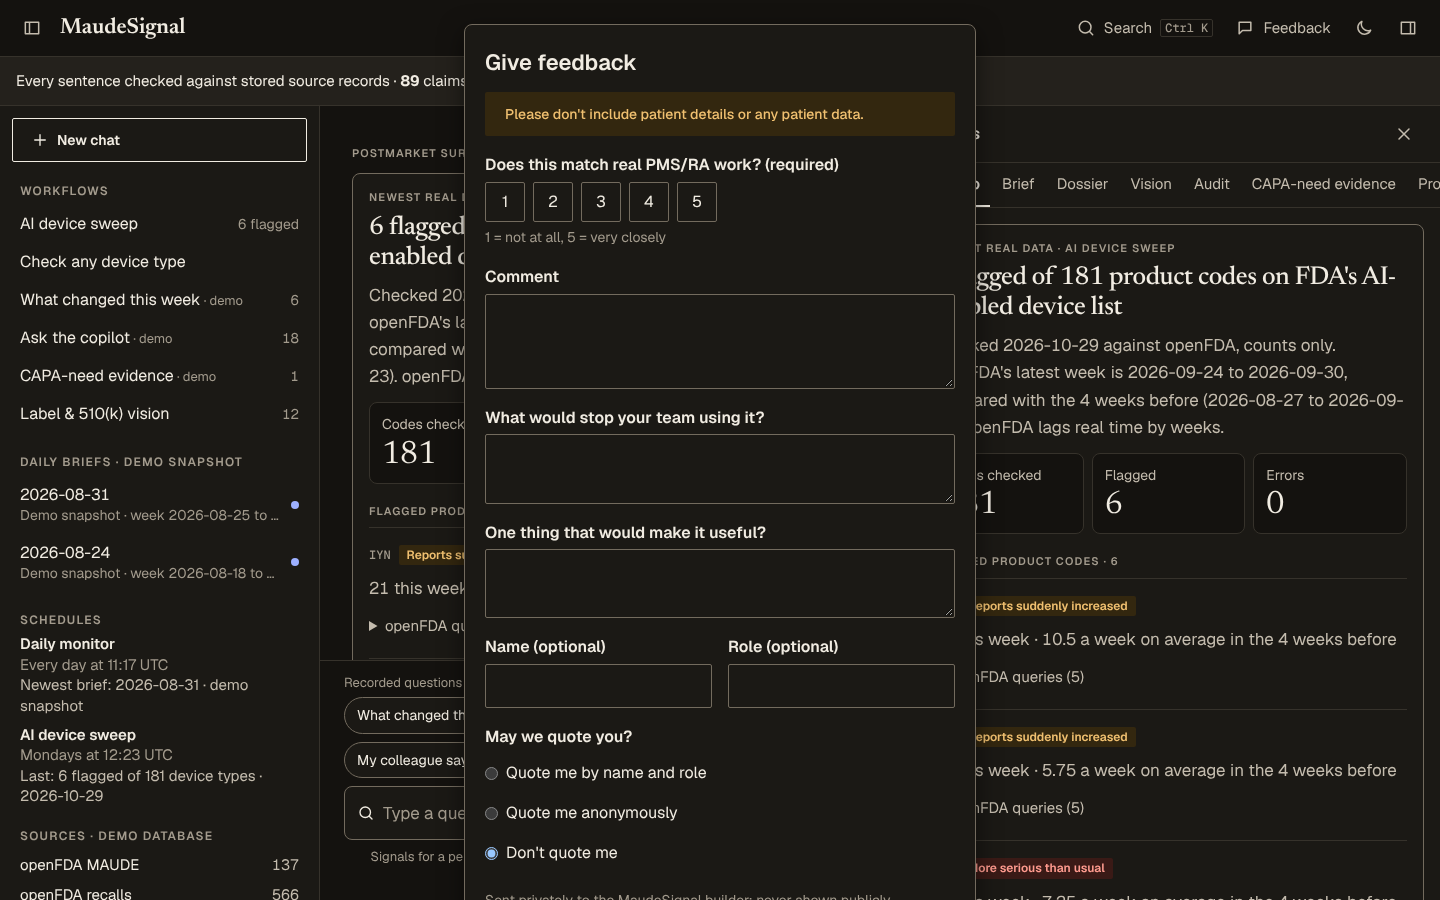
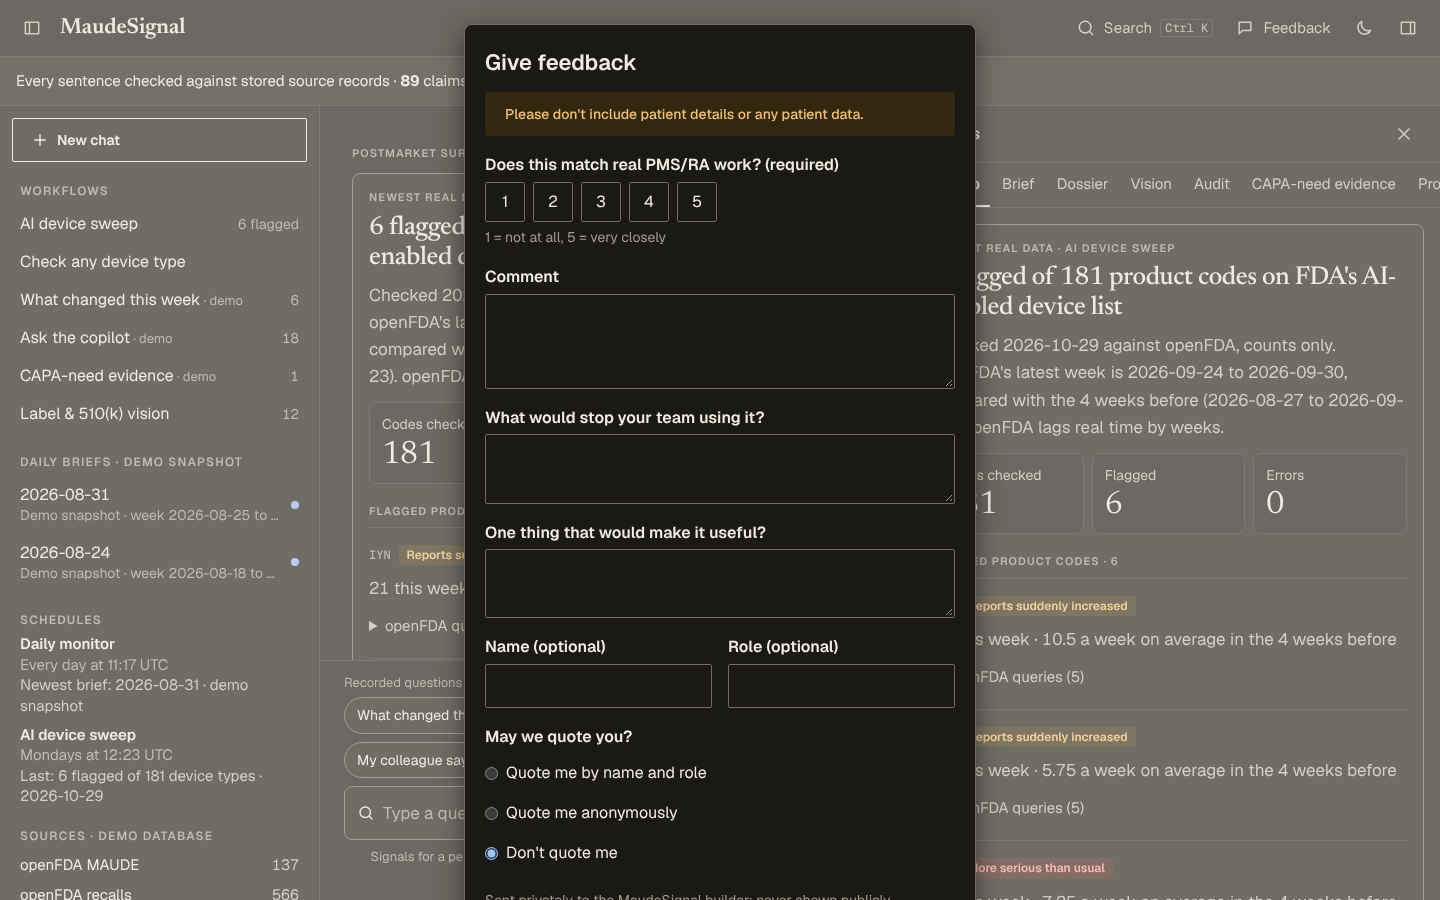
web: visit ping via fetch only (no sendBeacon CORS loss), token scrim, single Esc handler, two-origin check
Claude-Session: https://claude.ai/code/session_01SawpACqLLsGWXrK6TBXRho

diff --git a/web/src/feedback.test.tsx b/web/src/feedback.test.tsx
@@ -89,14 +89,22 @@ describe('visit pings', () => {
     expect(sendVisit(BASE, 'abc', 'new', s, { fetcher }, NOW)).toBe(false)
   })
 
-  it('prefers sendBeacon and falls back to fetch', () => {
+  it('always uses fetch keepalive with credentials omit and never builds a beacon', () => {
+    const fetcher = vi.fn((_u: string, _i: RequestInit) => Promise.resolve({}))
     const beacon = vi.fn(() => true)
-    const fetcher = vi.fn(() => Promise.resolve({}))
-    sendVisit(BASE, 'abc', 'a', fakeStore(), { beacon, fetcher }, NOW)
-    expect(beacon).toHaveBeenCalledTimes(1)
-    expect(fetcher).not.toHaveBeenCalled()
-    sendVisit(BASE, 'abc', 'b', fakeStore(), { beacon: () => false, fetcher }, NOW)
+    const sendBeacon = vi.fn(() => true)
+    Object.defineProperty(globalThis.navigator, 'sendBeacon', { value: sendBeacon, configurable: true })
+    // an extra beacon property on the sender must be ignored
+    sendVisit(BASE, 'abc', 'a', fakeStore(), { fetcher, beacon } as never, NOW)
+    expect(beacon).not.toHaveBeenCalled()
+    expect(sendBeacon).not.toHaveBeenCalled()
     expect(fetcher).toHaveBeenCalledTimes(1)
+    const [url, init] = fetcher.mock.calls[0]
+    expect(url).toBe(`${BASE}/v1/visit`)
+    expect(init.keepalive).toBe(true)
+    expect(init.credentials).toBe('omit')
+    expect(init.body).not.toBeInstanceOf(Blob)
+    Reflect.deleteProperty(globalThis.navigator, 'sendBeacon')
   })
 
   it('sends nothing without a ref or an API base, and fetch failures are silent', async () => {
@@ -214,20 +222,13 @@ describe('dialog', () => {
 
 describe('dialog keyboard', () => {
   const key = (k: string, shiftKey = false) => ({ key: k, shiftKey, preventDefault: vi.fn() })
-  it('Escape closes', () => {
-    const close = vi.fn()
-    dialogKey(key('Escape'), ['a', 'b'], 'a', close, vi.fn())
-    expect(close).toHaveBeenCalledTimes(1)
-  })
   it('Tab wraps last to first and Shift+Tab first to last', () => {
     const focus = vi.fn()
-    const close = vi.fn()
-    dialogKey(key('Tab'), ['a', 'b', 'c'], 'c', close, focus)
+    dialogKey(key('Tab'), ['a', 'b', 'c'], 'c', focus)
     expect(focus).toHaveBeenLastCalledWith('a')
-    dialogKey(key('Tab', true), ['a', 'b', 'c'], 'a', close, focus)
+    dialogKey(key('Tab', true), ['a', 'b', 'c'], 'a', focus)
     expect(focus).toHaveBeenLastCalledWith('c')
-    dialogKey(key('Tab'), ['a', 'b', 'c'], 'b', close, focus)
+    dialogKey(key('Tab'), ['a', 'b', 'c'], 'b', focus)
     expect(focus).toHaveBeenCalledTimes(2)
-    expect(close).not.toHaveBeenCalled()
   })
 })

diff --git a/web/src/feedback.ts b/web/src/feedback.ts
@@ -62,8 +62,8 @@ export function apiBaseOrNull(raw: unknown): string | null {
 
 // ---- visits -------------------------------------------------------------------------------
 
+/** Cross-origin visit ping: fetch with keepalive and credentials 'omit' only. */
 export interface VisitSender {
-  beacon?: (url: string, body: Blob) => boolean
   fetcher?: (url: string, init: RequestInit) => Promise<unknown>
 }
 
@@ -104,7 +104,8 @@ export function sendVisit(
   const url = `${apiBase}/v1/visit`
   const body = JSON.stringify({ ref, page, client_ts: now().toISOString() })
   try {
-    if (sender.beacon && sender.beacon(url, new Blob([body], { type: 'application/json' }))) return true
+    // Never navigator.sendBeacon: it always sends credentials, and the API (another origin) answers
+    // the CORS preflight without Allow-Credentials, so the browser would drop the POST silently.
     void Promise.resolve(
       sender.fetcher?.(url, {
         method: 'POST',
@@ -252,21 +253,16 @@ export interface KeyLike {
 }
 
 /**
- * Esc closes; Tab and Shift+Tab wrap inside the dialog. `focusables` are the dialog's focusable
+ * Tab and Shift+Tab wrap inside the dialog (Esc is the document listener's job). `focusables` are the dialog's focusable
  * elements in order and `active` the element that has focus now.
  */
 export function dialogKey<T>(
   e: KeyLike,
   focusables: T[],
   active: T | null,
-  close: () => void,
   focus: (el: T) => void,
 ): void {
-  if (e.key === 'Escape') {
-    e.preventDefault()
-    close()
-    return
-  }
+  // Esc is handled by the dialog's document listener, so it is not handled twice here.
   if (e.key !== 'Tab' || focusables.length === 0) return
   const first = focusables[0]
   const last = focusables[focusables.length - 1]

diff --git a/web/src/components/FeedbackDialog.tsx b/web/src/components/FeedbackDialog.tsx
@@ -65,7 +65,8 @@ export function FeedbackDialog({ open, onClose, apiBase, refCode, page }: Props)
 
   return (
     <div
-      className="fixed inset-0 z-50 flex items-start justify-center overflow-y-auto bg-ink/40 px-3 py-6"
+      className="fixed inset-0 z-50 flex items-start justify-center overflow-y-auto px-3 py-6"
+      style={{ background: 'color-mix(in srgb, var(--ink) 40%, transparent)' }}
       onMouseDown={(e) => e.target === e.currentTarget && onClose()}
     >
       <div
@@ -77,7 +78,7 @@ export function FeedbackDialog({ open, onClose, apiBase, refCode, page }: Props)
         style={{ boxShadow: 'var(--shadow-pop)' }}
         onKeyDown={(e) => {
           const els = Array.from(box.current?.querySelectorAll<HTMLElement>(FOCUSABLE) ?? [])
-          dialogKey(e, els, document.activeElement as HTMLElement | null, onClose, (el) => el.focus())
+          dialogKey(e, els, document.activeElement as HTMLElement | null, (el) => el.focus())
         }}
       >
         <h2 id="fb-title" className="m-0 text-[22px] font-semibold text-ink">

diff --git a/web/src/feedbackDom.test.tsx b/web/src/feedbackDom.test.tsx
@@ -62,4 +62,21 @@ describe('mounted dialog', () => {
     host.remove()
     outside.remove()
   })
+
+  it('Escape pressed inside the dialog closes it exactly once', async () => {
+    const host = document.createElement('div')
+    document.body.appendChild(host)
+    const onClose = vi.fn()
+    const root = createRoot(host)
+    await act(async () => {
+      root.render(<FeedbackDialog open onClose={onClose} apiBase={null} refCode={null} page="home" />)
+    })
+    const inner = document.querySelector('textarea') as HTMLElement
+    await act(async () => {
+      inner.dispatchEvent(new KeyboardEvent('keydown', { key: 'Escape', bubbles: true }))
+    })
+    expect(onClose).toHaveBeenCalledTimes(1)
+    await act(async () => root.unmount())
+    host.remove()
+  })
 })

diff --git a/web/src/App.tsx b/web/src/App.tsx
@@ -43,7 +43,6 @@ export default function App() {
       page,
       sessionStore(),
       {
-        beacon: typeof navigator.sendBeacon === 'function' ? (u, b) => navigator.sendBeacon(u, b) : undefined,
         fetcher: (u, init) => fetch(u, init),
       },
     )

diff --git a/web/qa/two_origin_check.py b/web/qa/two_origin_check.py
@@ -1,0 +1,74 @@
+"""Two-origin check of the visit ping against the real API's CORS preflight (no secrets, local only).
+
+    VITE_MAUDESIGNAL_API_BASE=http://127.0.0.1:8101 npm run build
+    PYTHONPATH=<track-c-feedback checkout>/src python3 qa/two_origin_check.py dist
+
+Serves ``dist`` on :8100 and the real ``mount_feedback`` app (memory store, no-op notifier) on :8101,
+opens ``?r=qa-code`` in Chromium and prints the requests the API saw.
+"""
+
+from __future__ import annotations
+
+import http.server
+import json
+import sys
+import threading
+import time
+from functools import partial
+from pathlib import Path
+
+import uvicorn
+from fastapi import FastAPI
+from maudesignal.connector.blob_store import MemoryStore
+from maudesignal.connector.feedback import mount_feedback
+from maudesignal.connector.notify import NoopNotifier
+from maudesignal.connector.security import RateLimiter
+from playwright.sync_api import sync_playwright
+
+WEB, API = "http://127.0.0.1:8100", "http://127.0.0.1:8101"
+
+
+def main() -> None:
+    """Run the check and print the result."""
+    dist = Path(sys.argv[1]).resolve()
+    handler = partial(http.server.SimpleHTTPRequestHandler, directory=str(dist))
+    handler.log_message = lambda *a, **k: None  # type: ignore[method-assign]
+    web = http.server.ThreadingHTTPServer(("127.0.0.1", 8100), handler)
+    threading.Thread(target=web.serve_forever, daemon=True).start()
+
+    app = FastAPI()
+    seen: list[str] = []
+
+    @app.middleware("http")
+    async def log(request, call_next):  # type: ignore[no-untyped-def]
+        seen.append(f"{request.method} {request.url.path}")
+        return await call_next(request)
+
+    mount_feedback(
+        app,
+        store=MemoryStore(),
+        notifier=NoopNotifier(),
+        web_origins=frozenset({WEB}),
+        client_address=lambda r: "test",
+        failed_auth=RateLimiter(5),
+        make_limiter=lambda name, limit, window: RateLimiter(limit, window_seconds=window),
+        env={"MAUDESIGNAL_ADMIN_KEY": "x" * 24},
+    )
+    server = uvicorn.Server(uvicorn.Config(app, host="127.0.0.1", port=8101, log_level="error"))
+    threading.Thread(target=server.run, daemon=True).start()
+    time.sleep(1.5)
+    with sync_playwright() as p:
+        b = p.chromium.launch()
+        page = b.new_page()
+        page.goto(f"{WEB}/?r=qa-code")
+        page.wait_for_timeout(2500)
+        b.close()
+    print(json.dumps({"api_requests_seen": seen}, indent=1))
+    ok = "POST /v1/visit" in seen
+    print("VISIT POST REACHED API:", ok)
+    server.should_exit = True
+    sys.exit(0 if ok else 1)
+
+
+if __name__ == "__main__":
+    main()
